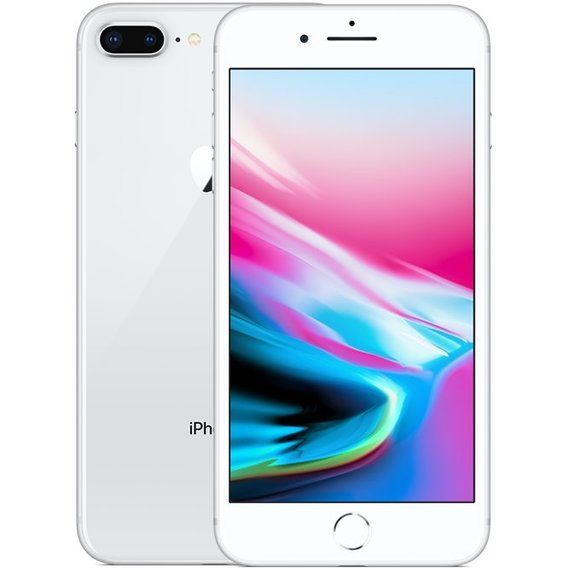
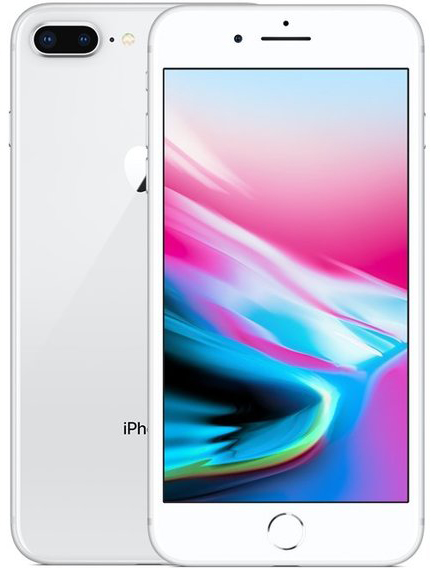
optimazed img and add search

diff --git a/index.html b/index.html
@@ -25,11 +25,11 @@
       <div class="col-md-4">
         <div class="form-group">
           <label for="search"> <strong> Поиск</strong></label>
-          <input type="text" class="form-control" id="search" placeholder="модель ...">
+          <input type="text" class="form-control" id="search" placeholder="модель ..." v-model="search">
           <hr>
 
           <ul class="list-group">
-            <li v-for="(phone, index) of phones" 
+            <li v-for="(phone, index) of searchPhones" 
             v-on:click="selectphone(index)"
             :class="{'active': selectedphoneIndex === index}"
             class="list-group-item list-group-item-action list-group-item-info pointer">{{ phone.name }} {{ phone.model }}</li>
@@ -38,7 +38,6 @@
         </div>
       </div>
       <div class="col-md-8">
-
         <div class="row">
           <div class="col-md-6">
             <h4 class="mb-5">{{ phone.name }} {{ phone.model }} 
@@ -46,11 +45,9 @@
               gb 
               <span >{{ color.phoneColor }}</span>
             </h4>
-
-            <a href="#" type="button" class="" data-toggle="modal" data-target=".bd-example-modal-xl" title="купить айфон">
-              <img :src="phone.image" :alt="phone.model" class="img-fluid">
+            <a href="#" type="button" class="text-center" data-toggle="modal" data-target=".bd-example-modal-xl" title="купить айфон">
+              <img :src="phone.image" :alt="phone.model" class="img-fluid phone-img">
             </a>
-
             <div class="modal fade bd-example-modal-xl" tabindex="-1" role="dialog" aria-labelledby="myExtraLargeModalLabel"
               aria-hidden="true">
               <div class="modal-dialog modal-xl">
@@ -91,6 +88,7 @@
             <button class="btn btn-outline-info m-1" 
             v-for="(size, index) of sizes" 
             v-on:click="selectSizes(index)"
+            :class="{'active': selectSizesIndex === index}"
             >{{ size.phoneSize }}</button>
             
             <p class="m-3 color-text">Цвет</p>
@@ -101,9 +99,9 @@
             :class="{'active': selectColorsIndex === index} "
             >&nbsp;</button>
             <div class="m-3 price bg-primary text-white rounded text-center"> <strong> {{ phone.price }} грн </strong></div>
-            <p>Не позорься, собирай деньги!!!</p>
+            <p class="joke bg-danger color-white p-3" v-if="creditVisibility ">Не позорься, собирай деньги!!!</p> <br>
             <button class="btn btn-success mr-3">КУПИТЬ</button>
-            <button class="btn btn-danger">КУПИТЬ В КРЕДИТ</button>
+            <button class="btn btn-secondary" @click="creditVisibility = !creditVisibility">КУПИТЬ В КРЕДИТ</button>
             <ul class="pt-3">
               <li class="mt-3">Дисплей Retina HD 5,5 дюйма </li>
               <li class="mt-3">Камера Двойная камера 12 Мп с режимом «Портрет» и возможностью записи видео 4K с
@@ -113,7 +111,7 @@
               <li class="mt-3">Процессор A10 Fusion</li>
               <li class="mt-3">Объем оперативной памяти 3 Гб
               </li>
-              <li class="mt-3">Объем встроенной памяти 128 Гб</li>
+              <li class="mt-3">Объем встроенной памяти {{ size.phoneSize }} Гб</li>
             </ul>
            
           </div>

diff --git a/app.js b/app.js
@@ -8,12 +8,12 @@ const phone = (name, model, image, price, FirstSliderImage, secondSliderImage, t
   thirdSliderImage
 });
 const phones = [
-  phone("Iphone", "SE", "img/se1.jpg", 6500, "img/se1.jpg", "img/se2.jpg", "img/se3.jpg"),
-  phone("Iphone", "7 Plus", "img/7-1.jpg", 12600, "img/7-1.jpg", "img/7-2.jpg", "img/7-3.jpg"),
-  phone("Iphone", "8 Plus", "img/8-1.jpg", 15800, "img/8-1.jpg", "img/8-2.jpg", "img/8-3.jpg"),
-  phone("Iphone", "X", "img/x-1.jpg", 19500, "img/x-1.jpg", "img/x-2.jpg", "img/x-3.jpg"),
-  phone("Iphone", "XR", "img/xr-1.jpg", 20200, "img/xr-1.jpg", "img/xr-2.jpg", "img/xr-3.jpg"),
-  phone("Iphone", "XS Max", "img/xs-1.jpg", 25350, "img/xs-1.jpg", "img/xs-2.jpg", "img/xs-3.jpg"),
+  phone("Iphone", "SE", "img/se1.jpg", "6 500", "img/se1.jpg", "img/se2.jpg", "img/se3.jpg"),
+  phone("Iphone", "7 Plus", "img/7-1.jpg", "12 600", "img/7-1.jpg", "img/7-2.jpg", "img/7-3.jpg"),
+  phone("Iphone", "8 Plus", "img/8-1.jpg", "15 800", "img/8-1.jpg", "img/8-2.jpg", "img/8-3.jpg"),
+  phone("Iphone", "X", "img/x-1.jpg", "19 500", "img/x-1.jpg", "img/x-2.jpg", "img/x-3.jpg"),
+  phone("Iphone", "XR", "img/xr-1.jpg", "20 200", "img/xr-1.jpg", "img/xr-2.jpg", "img/xr-3.jpg"),
+  phone("Iphone", "XS Max", "img/xs-1.jpg", "25 350", "img/xs-1.jpg", "img/xs-2.jpg", "img/xs-3.jpg"),
 ]
 const size = (phoneSize) => ({
   phoneSize
@@ -51,6 +51,8 @@ new Vue({
     colors: colors,
     color: colors[0],
     selectColorsIndex: 0,
+    search: '',
+    creditVisibility: false,
   },
   methods: {
     selectphone(index) {
@@ -65,5 +67,12 @@ new Vue({
       this.color = colors[index];
       this.selectColorsIndex = index;
     },
-  }
+  },
+  computed: {
+    searchPhones() {
+      return this.phones.filter(phone => {
+        return phone.name.toLowerCase().indexOf(this.search.toLowerCase()) > -1 || phone.model.toLowerCase().indexOf(this.search.toLowerCase()) > -1
+      })
+    }
+  },
 });

diff --git a/style.css b/style.css
@@ -21,3 +21,12 @@
   padding: 10px;
   margin: 0 auto;
 }
+
+.joke{
+  display: inline-block;
+}
+
+.phone-img{
+  max-height: 400px;
+  text-align: center;
+}
